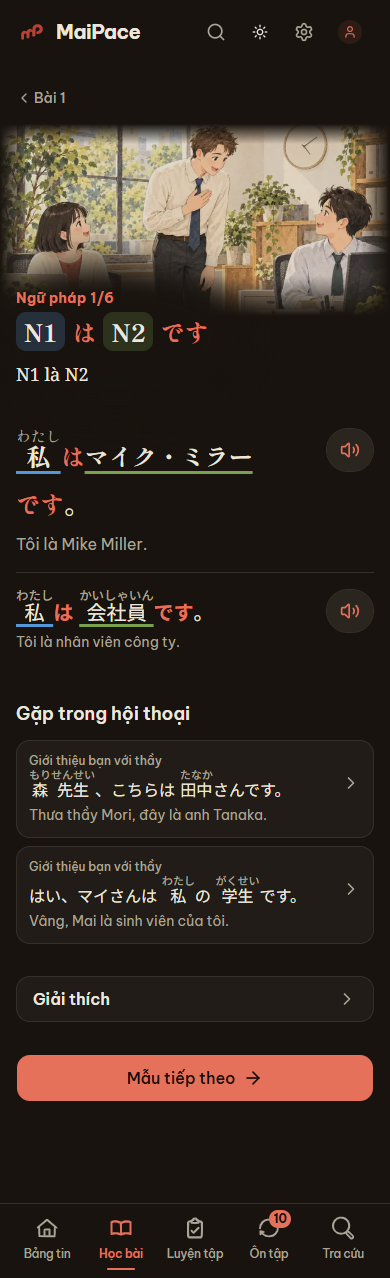
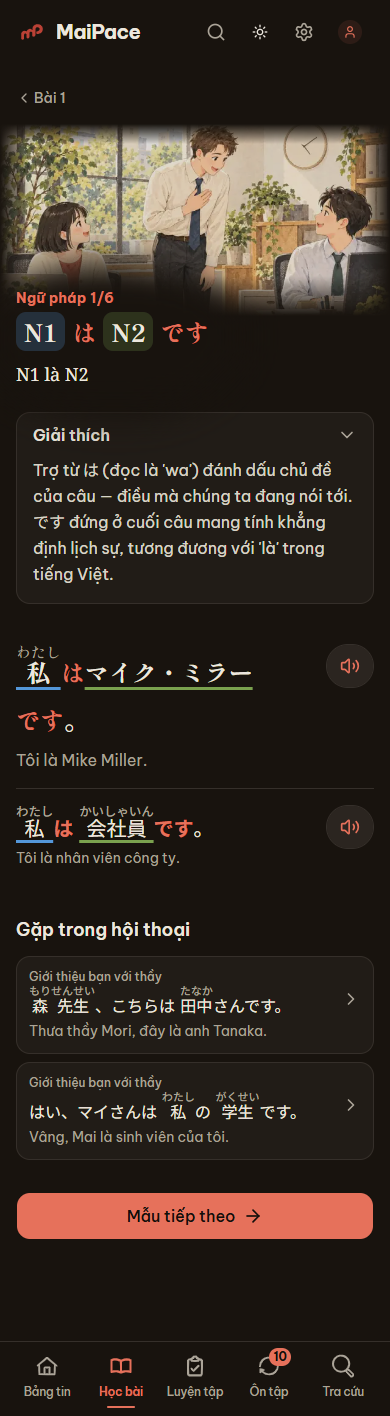
fix(ngu-phap): show the explanation first and open
Learners need to understand the pattern before reading its examples, so the
explanation now sits right under the pattern and starts expanded; it can
still be collapsed.

diff --git a/web/src/app/hoc/[so]/ngu-phap/[id]/page.tsx b/web/src/app/hoc/[so]/ngu-phap/[id]/page.tsx
@@ -109,6 +109,21 @@ export default async function GrammarPointPage({ params }: { params: Promise<Par
             )}
           </header>
 
+          {/* Mở sẵn ngay dưới mẫu câu: người mới học cần hiểu mẫu trước khi đọc ví dụ; ai đã hiểu thì thu lại. */}
+          <details open className="group mt-6 rounded-xl border border-border bg-card">
+            <summary className="flex min-h-11 cursor-pointer list-none items-center justify-between gap-3 rounded-xl px-4 font-semibold text-foreground outline-none focus-visible:ring-3 focus-visible:ring-ring [&::-webkit-details-marker]:hidden">
+              Giải thích
+              <ChevronRight
+                className="size-5 shrink-0 text-muted-foreground transition-transform group-open:rotate-90 motion-reduce:transition-none"
+                aria-hidden="true"
+              />
+            </summary>
+            <div className="space-y-3 px-4 pb-4">
+              <p className="text-base leading-relaxed text-foreground/90">{point.explanation.vi}</p>
+              {point.sourceRef && <p className="text-xs text-muted-foreground/80">Nguồn: {point.sourceRef}</p>}
+            </div>
+          </details>
+
           {point.examples.length > 0 && (
             <section aria-label="Ví dụ" className="mt-6">
               <ul className="divide-y divide-border">
@@ -135,20 +150,6 @@ export default async function GrammarPointPage({ params }: { params: Promise<Par
               )}
             </section>
           )}
-
-          <details className="group mt-8 rounded-xl border border-border bg-card">
-            <summary className="flex min-h-11 cursor-pointer list-none items-center justify-between gap-3 rounded-xl px-4 font-semibold text-foreground outline-none focus-visible:ring-3 focus-visible:ring-ring [&::-webkit-details-marker]:hidden">
-              Giải thích
-              <ChevronRight
-                className="size-5 shrink-0 text-muted-foreground transition-transform group-open:rotate-90 motion-reduce:transition-none"
-                aria-hidden="true"
-              />
-            </summary>
-            <div className="space-y-3 px-4 pb-4">
-              <p className="text-sm leading-relaxed text-foreground/90">{point.explanation.vi}</p>
-              {point.sourceRef && <p className="text-xs text-muted-foreground/80">Nguồn: {point.sourceRef}</p>}
-            </div>
-          </details>
 
           <div className="mt-8 flex flex-col gap-2">
             <Link
